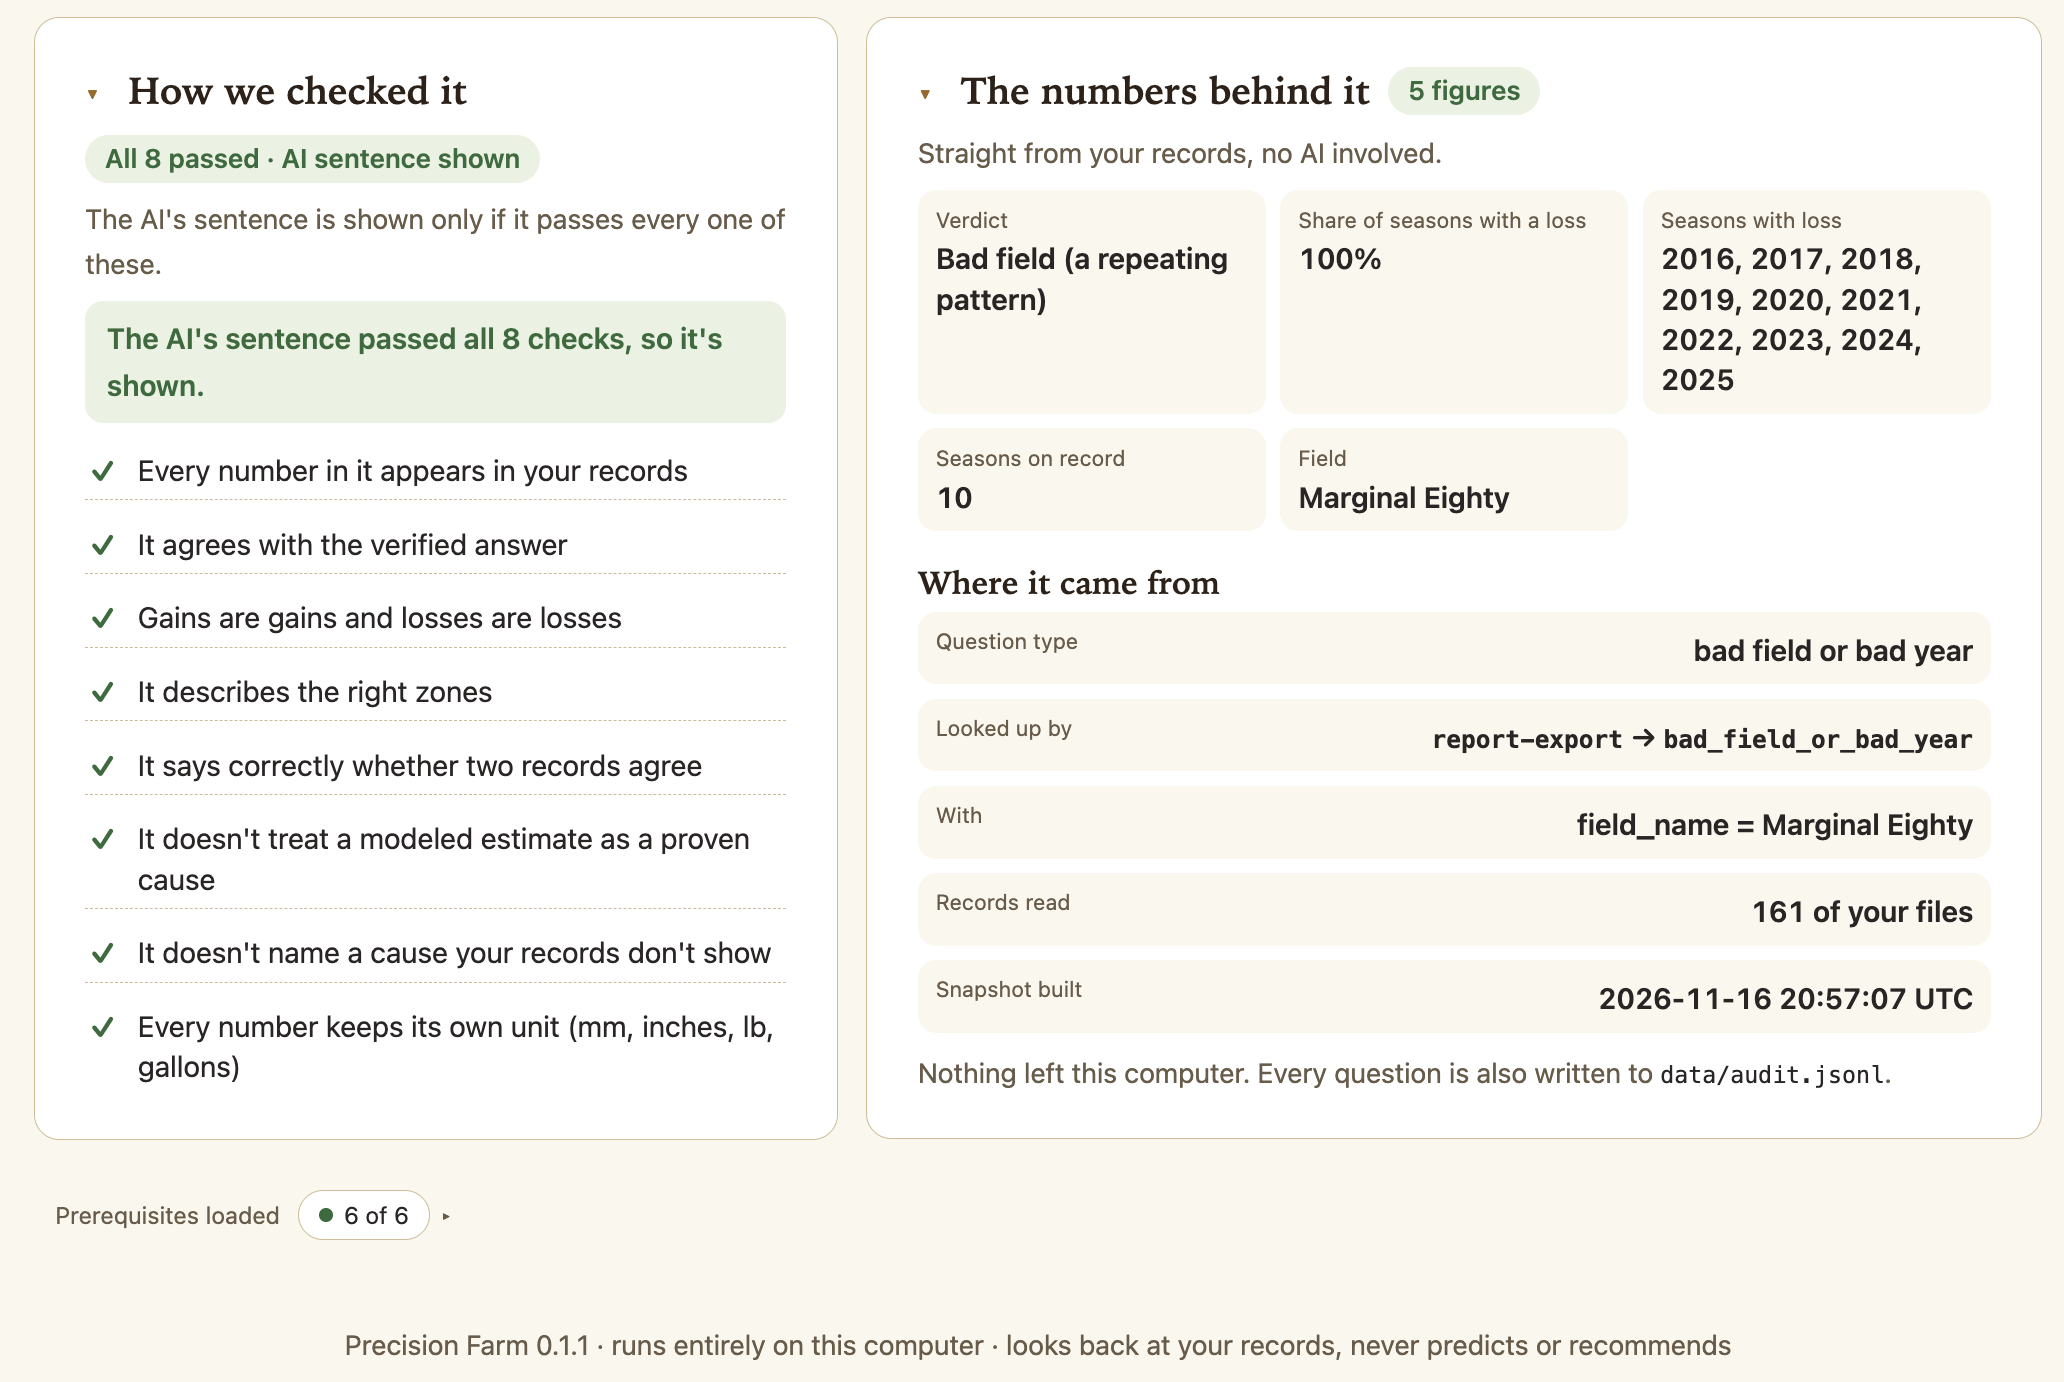
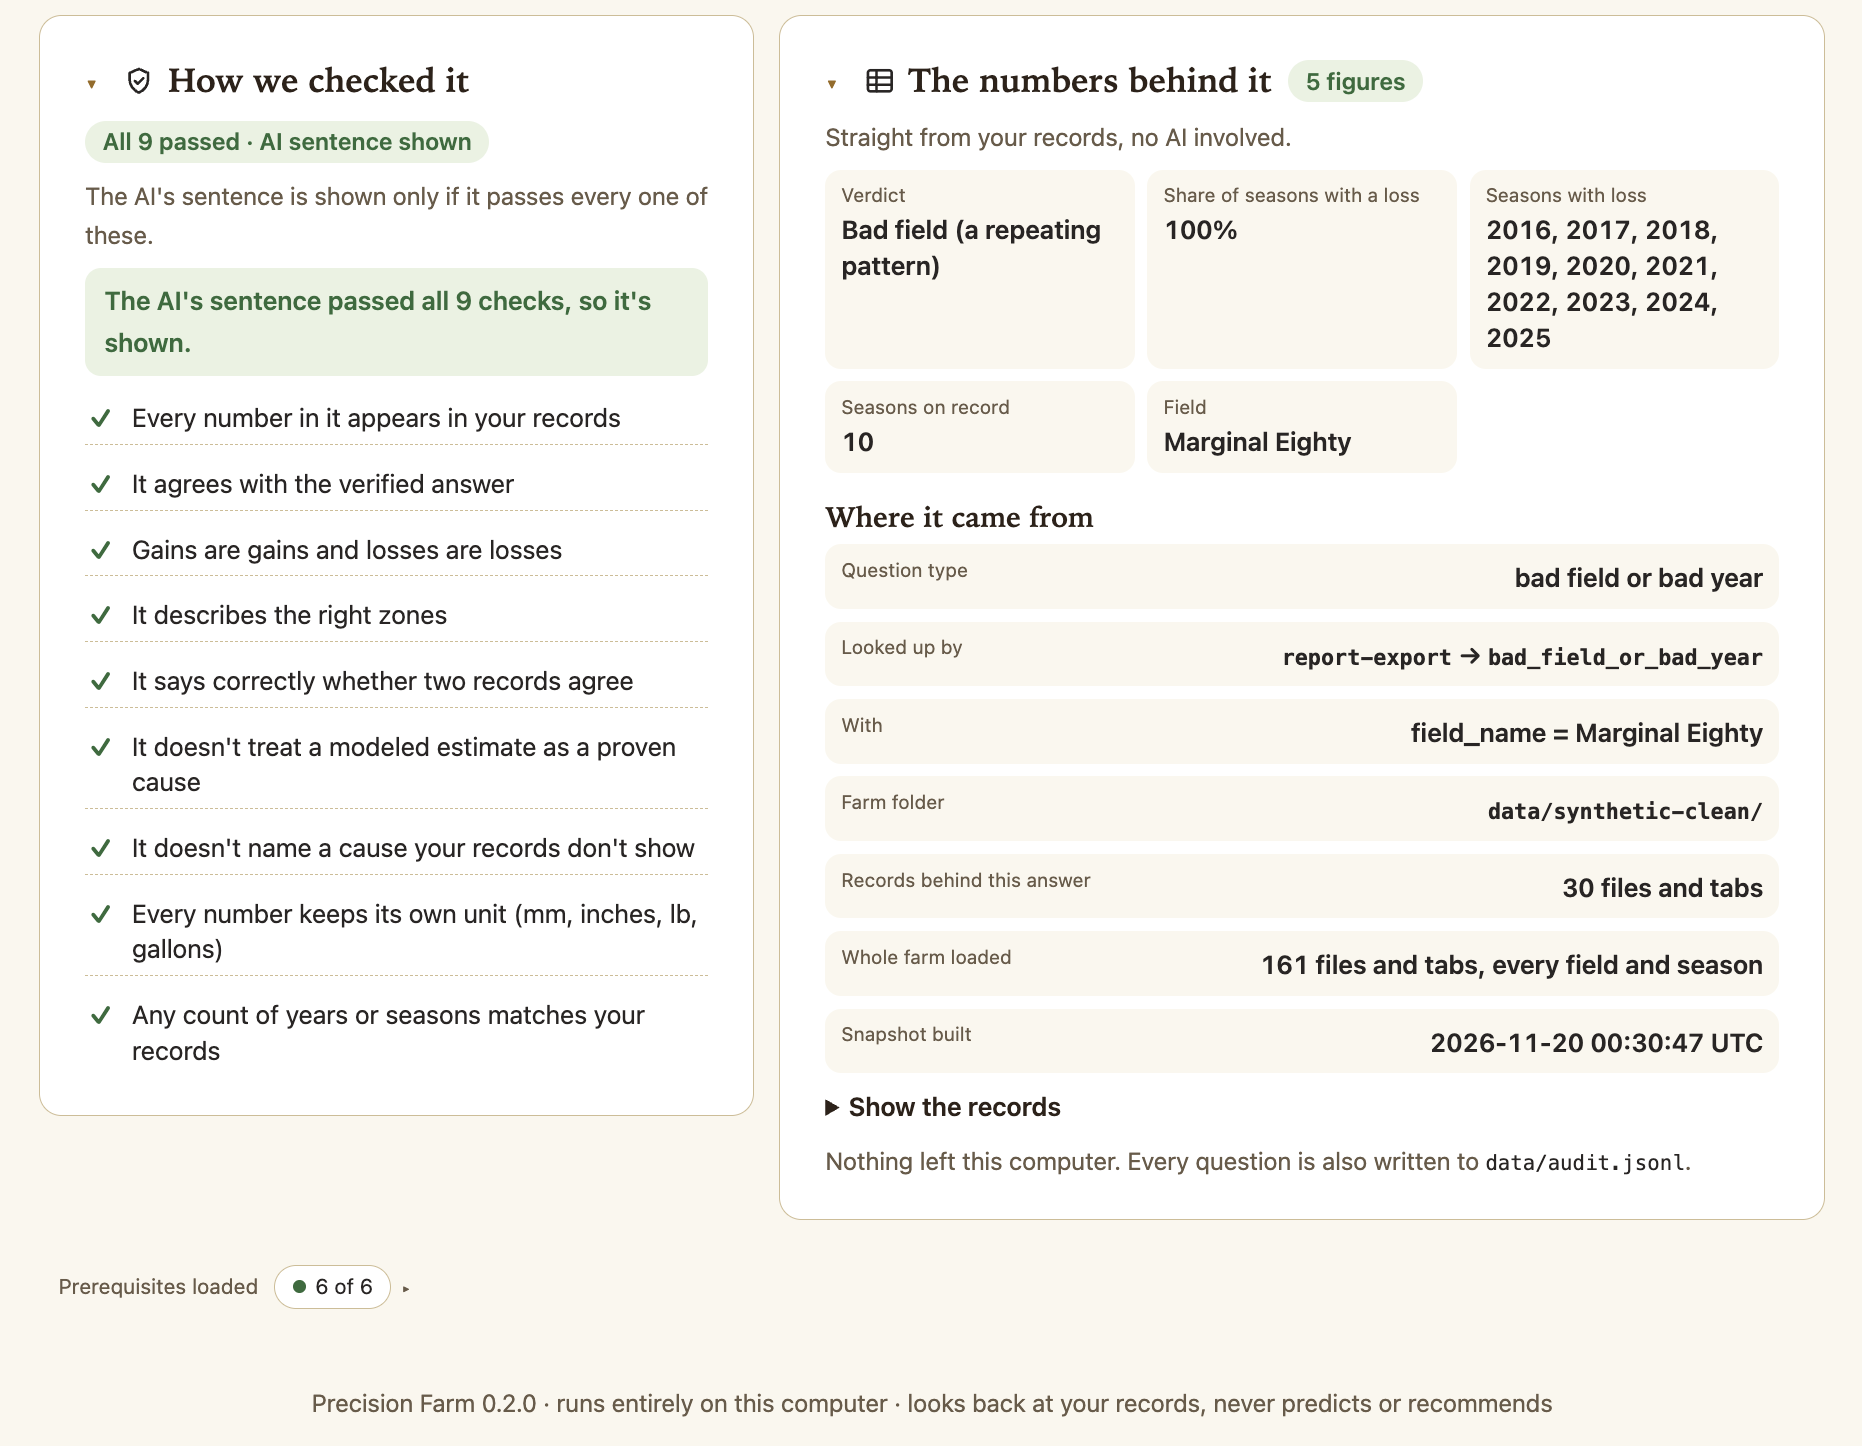
Docs: new checks screenshot, diagrams checked against code, docs/README.md
- docs/images/farm-web-checks.png: Lynn's new shot (9 checks, 0.2.0, icons).
- ARCHITECTURE flowchart: host writes to the audit log; the records-behind
  step (field-registry records_behind, web app only, after the checks).
- ARCHITECTURE sequence: a dead model gets its own "Couldn't reach the local
  model" reply, separate from the out-of-scope refusal; "Show the records"
  sits inside "The numbers behind it".
- docs/README.md: one table, each doc, who it's for, what it covers.

Claude-Session: https://claude.ai/code/session_01PygDK93WqozrDQkg2eWB5G

diff --git a/docs/ARCHITECTURE.md b/docs/ARCHITECTURE.md
@@ -34,11 +34,14 @@ flowchart TD
     Servers --> DB[("DuckDB — 10 seasons, local files only")]
     Servers -.-> Audit[("audit.jsonl<br/>hash-chained — safe under concurrent<br/>host + server process writes")]
 
+    Router -.->|"every step logged"| Audit
     Router --> Template["Template answer<br/>deterministic lead sentence<br/>(terminal also adds a 'therefore' line)"]
     Router --> Narrator["Gemma 3 4B<br/>may add one sentence of context. Farmer free text<br/>is delimited as untrusted data first"]
     Narrator --> Checks["Verifier — 9 checks<br/>grounded numbers, verdict, 7 meaning checks —<br/>one try — fails ⇒ sentence withheld"]
-    Template --> Answer(["Answer<br/>the web app also shows the checks, figures and source"])
+    Template --> Answer(["Answer<br/>the web app also shows the checks, figures and records"])
     Checks -->|"only if every check passes"| Answer
+    Checks --> Records["Records behind the answer<br/>field-registry records_behind, web app only —<br/>fetched after the checks, never seen by Gemma"]
+    Records --> Answer
 ```
 
 Gemma touches a question at exactly two points: parsing it into a
@@ -94,10 +97,12 @@ sequenceDiagram
     W->>H: The question + which farm + follow-up context<br/>(last field, season, question type)
     H->>AI: Turn this question into ONE lookup
     AI-->>H: Question type + field + season (structured JSON)
-    alt AI not running, question out of scope, or a field/season the question (or follow-up context) never named
+    alt AI not running
+        H-->>W: "Couldn't reach the local model" and the farm-preflight command — nothing is looked up
+    else Question out of scope, or a field/season the question (or follow-up context) never named
         H-->>W: Polite "I couldn't look that up" — nothing is looked up
     end
-    H->>H: Years the question didn't name are never used: "last five years" becomes the latest 5 known seasons, in code
+    H->>H: Plain code checks the lookup. Years the question didn't name are never used: "last five years" becomes the latest 5 known seasons, in code
     H->>H: Pick the one server and tool for that question type (a fixed table, not AI)
     H->>S: One lookup, e.g. bad_field_or_bad_year("East 80")
     S-->>H: Numbers straight from the records (no AI involved)
@@ -118,7 +123,7 @@ sequenceDiagram
     H->>S: Which files, tabs and rows did that lookup read? (field-registry records_behind)
     S-->>H: One entry per file or spreadsheet tab (never shown to the AI or the checks)
     H-->>W: Answer + checks + numbers + source + the records list
-    W-->>G: Answer with farm badge, "How we checked it" and<br/>"The numbers behind it" folded to one line each (checks open if one failed)
+    W-->>G: Answer with farm badge, "How we checked it" and<br/>"The numbers behind it" (with "Show the records") folded to one line each (checks open if one failed)
 
     rect rgb(232, 236, 246)
     Note over G,W: Follow-ups

diff --git a/docs/README.md b/docs/README.md
@@ -1,0 +1,15 @@
+# Docs
+
+Start with the [project README](../README.md) for the overview and quick start.
+
+| Doc | For | What it covers |
+|---|---|---|
+| [FARMER_GUIDE.md](FARMER_GUIDE.md) | Growers | Install, try the two example farms, use the app, load your own records |
+| [YOUR_RECORDS.md](YOUR_RECORDS.md) | Growers | Where every number comes from, checking an answer by hand, the files your farm needs |
+| [EVAL_QUESTIONS.md](EVAL_QUESTIONS.md) | Teachers | 15 demo questions plus follow-up pairs, each with its known-right answer (generated, don't edit) |
+| [DEVELOPER.md](DEVELOPER.md) | Developers | Commands, settings, `farm-cli`, repository layout |
+| [ARCHITECTURE.md](ARCHITECTURE.md) | Developers | How a question flows, the 9 checks, component status |
+| [VERIFICATION.md](VERIFICATION.md) | Developers | Running the tests, what CI runs, what the tests prove |
+| [PROJECT_HISTORY.md](PROJECT_HISTORY.md) | Developers | Why it's built this way, PR by PR |
+
+Release notes are in [CHANGELOG.md](../CHANGELOG.md).

diff --git a/docs/FARMER_GUIDE.md b/docs/FARMER_GUIDE.md
@@ -143,7 +143,7 @@ Each answer has labelled parts:
 | **How we checked it** | The 9 checks, folded to a summary such as "All 9 passed" |
 | **The numbers behind it** | The exact figures, and **Where it came from**: the lookup used and **Show the records**, every file, tab and row behind the answer, so you can check it by hand ([how](YOUR_RECORDS.md#show-the-records-behind-an-answer)) |
 
-![Below the answer, opened: How we checked it and The numbers behind it (the figures and where they came from)](images/farm-web-checks.png)
+![Below the answer, opened: How we checked it (all 9 checks passed) and The numbers behind it (the figures and where they came from)](images/farm-web-checks.png)
 
 **Two questions worth trying:**
 
